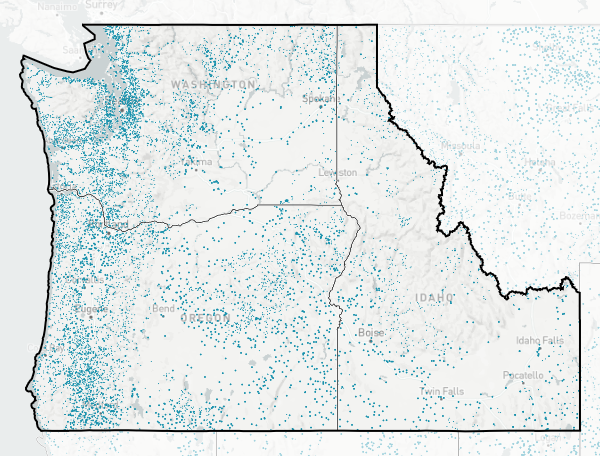
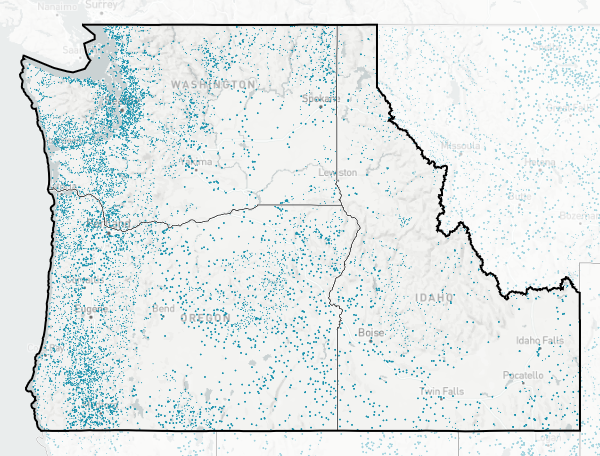
Update to 10/20/2023 data

diff --git a/ui/src/pages/network_methods.jsx b/ui/src/pages/network_methods.jsx
@@ -113,7 +113,7 @@ const MethodsPage = ({ data: { headerImage } }) => (
         <p>
           The location of dams across the Southeast were compiled by SARP from a
           variety of data providers, including the{' '}
-          <OutboundLink to="http://nid.usace.army.mil/cm_apex/f?p=838:12">
+          <OutboundLink to="https://nid.sec.usace.army.mil/#/">
             National Inventory of Dams
           </OutboundLink>
           ,{' '}

diff --git a/ui/src/components/BarrierDetails/IDInfo.jsx b/ui/src/components/BarrierDetails/IDInfo.jsx
@@ -20,7 +20,7 @@ const IDInfo = ({ sarpid, nidid, source, link, nearestcrossingid }) => {
       {!isEmptyString(nidid) ? (
         <Entry>
           <Field label="National inventory of dams ID">
-            <ExternalLink to="https://nid.usace.army.mil/#/">
+            <ExternalLink to="https://nid.sec.usace.army.mil/#/">
               {nidid}
             </ExternalLink>
           </Field>

diff --git a/ui/src/content/home/Top.jsx b/ui/src/content/home/Top.jsx
@@ -73,7 +73,7 @@ const Top = () => (
     <Paragraph sx={{ mt: '2rem' }}>
       In addition to state and local datasets, national barrier datasets used in
       this inventory include the{' '}
-      <OutboundLink to="https://nid.usace.army.mil/#/">
+      <OutboundLink to="https://nid.sec.usace.army.mil/#/">
         National Inventory of Dams
       </OutboundLink>
       ,{' '}

diff --git a/analysis/prep/barriers/special/extract_snapping_dataset_2023.py b/analysis/prep/barriers/special/extract_snapping_dataset_2023.py
@@ -6,7 +6,8 @@ from pyogrio import write_dataframe
 
 
 data_dir = Path("data")
-src_dir = data_dir / "barriers/source/Archive_Feb2022"
+# last run with source data on 10/20/2023
+src_dir = data_dir / "barriers/source"
 out_dir = Path("/tmp/sarp")
 
 if not out_dir.exists():
@@ -24,13 +25,10 @@ src.ManualReview = src.ManualReview.fillna(0).astype("uint8")
 # these are invasive species barriers
 src.loc[(src.Recon == 16) & (src.ManualReview == 0), "ManualReview"] = 10
 
-# Reset manual review for dams that were previously not snapped, but are not reviewed
-# only keep those with manual review >= 2 (0,1 not useful; 10,20,21 do not indicate review of coordinates)
-src.loc[~src.ManualReview.isin([0, 1, 7, 9, 10, 20, 21])].copy()
+# only keep source points with manual review >= 2 (0,1 not useful; 10,20,21 do not indicate review of coordinates)
+src = src.loc[~src.ManualReview.isin([0, 1, 7, 9, 10, 20, 21])].copy()
 
-
-### For SARP states, update existing snapping dataset
-# read manually snapped dams
+### read manually snapped dams
 snapped_df = gp.read_feather(
     src_dir / "manually_snapped_dams.feather",
     columns=[
@@ -74,7 +72,7 @@ print(
     f"Dropping {ix.sum():,} dams that were marked as duplicates both manually and automatically"
 )
 
-### extract outputs of previous prep_dams.py
+### extract latest outputs produced by prep_dams.py
 df = gp.read_feather(
     data_dir / "barriers/master/dams.feather",
     columns=[
@@ -84,6 +82,8 @@ df = gp.read_feather(
         "State",
         "HUC2",
         "ManualReview",
+        "removed",
+        "YearRemoved",
         "dropped",
         "excluded",
         "duplicate",
@@ -115,8 +115,8 @@ df = df.join(
 )
 
 # mark any as snapped / not
+df["cur_pt_src"] = "not snapped"
 df.loc[df.snapped, "cur_pt_src"] = "autosnapped pt"
-df.loc[~df.snapped, "cur_pt_src"] = "not snapped"
 
 # any that were manually reviewed in source, use that original point and manual review
 # (note: these may be overridden again by manually reviewed dams in snapping dataset)

diff --git a/analysis/prep/barriers/download.py b/analysis/prep/barriers/download.py
@@ -23,7 +23,7 @@ if not TOKEN:
     raise ValueError("AGOL_TOKEN must be defined in your .env file")
 
 
-DAMS_URL = "https://services.arcgis.com/QVENGdaPbd4LUkLV/arcgis/rest/services/National_Aquatic_Barrier_Inventory_Dams_06142023/FeatureServer/0"
+DAMS_URL = "https://services.arcgis.com/QVENGdaPbd4LUkLV/arcgis/rest/services/National_Dams_New_10_18_2023_UPLOAD/FeatureServer/0"
 SNAPPED_URL = "https://services.arcgis.com/QVENGdaPbd4LUkLV/arcgis/rest/services/Dam_Snapping_QA_Dataset_01212020/FeatureServer/0"
 SMALL_BARRIERS_URL = "https://services.arcgis.com/QVENGdaPbd4LUkLV/ArcGIS/rest/services/All_RoadBarriers_01212019/FeatureServer/0"
 WATERFALLS_URL = "https://services.arcgis.com/QVENGdaPbd4LUkLV/arcgis/rest/services/SARP_Waterfall_Database_01212020/FeatureServer/0"
@@ -57,6 +57,9 @@ async def download_dams(token):
                 "Water_Right": "WaterRight",
                 "Water_Right_Status": "WaterRightStatus",
                 "Beneficial_Use": "BeneficialUse",
+                "HEIGHT": "Height",
+                "WIDTH": "Width",
+                "LENGTH": "Length",
             }
         )
 
@@ -149,9 +152,15 @@ async def download_waterfalls(token):
                 "gnis_name_": "GNIS_Name",
                 "watercours": "Stream",
                 "name": "Name",
+                "Year_Removed": "YearRemoved",
             }
         )
         df = df.loc[df.geometry.notnull()].to_crs(CRS).reset_index(drop=True)
+
+        # gnis_name_ may be completely null and thus dropped during download,
+        # but GNIS_Name is used during prep and needs to be present
+        if "GNIS_Name" not in df.columns:
+            df["GNIS_Name"] = ""
 
         return df
 

diff --git a/analysis/network/lib/stats.py b/analysis/network/lib/stats.py
@@ -323,14 +323,15 @@ def calculate_geometry_stats(df):
 
     # calculate percent altered
     lengths["pct_unaltered"] = (
-        100 * (lengths.unaltered_miles / lengths.total_miles)
+        100.0 * (lengths.unaltered_miles / lengths.total_miles)
     ).astype("float32")
     # Note: if there are no perennial miles, this should be 0
-    lengths["pct_perennial_unaltered"] = 0
+    lengths["pct_perennial_unaltered"] = 0.0
     ix = lengths.perennial_miles > 0
-    lengths.loc[ix, "pct_perennial_unaltered"] = 100 * (
-        lengths.loc[ix].perennial_unaltered_miles / lengths.loc[ix].perennial_miles
-    )
+    lengths.loc[ix, "pct_perennial_unaltered"] = (
+        100.0
+        * (lengths.loc[ix].perennial_unaltered_miles / lengths.loc[ix].perennial_miles)
+    ).astype("float32")
     lengths["pct_perennial_unaltered"] = lengths.pct_perennial_unaltered.astype(
         "float32"
     )

diff --git a/analysis/prep/barriers/lib/arcgis.py b/analysis/prep/barriers/lib/arcgis.py
@@ -178,6 +178,10 @@ async def download_fs(client, url, fields=None, token=None, target_wkid=None):
     for features in completed:
         df = gp.GeoDataFrame.from_features(features, crs="EPSG:4326")
 
+        missing = df.columns[df.isnull().all()]
+        if len(missing):
+            df = df.drop(columns=missing)
+
         if merged is None:
             merged = df
         else:

diff --git a/setup.py b/setup.py
@@ -13,7 +13,7 @@ with open(path.join(here, "README.md"), encoding="utf-8") as f:
 setup(
     name="sarp-connectivity",
     # version must be kept in sync with ui/package.json
-    version="3.2.0",
+    version="3.3.0",
     description="National Aquatic Barrier Inventory & Prioritization Tool",
     long_description=long_description,
     long_description_content_type="text/markdown",
